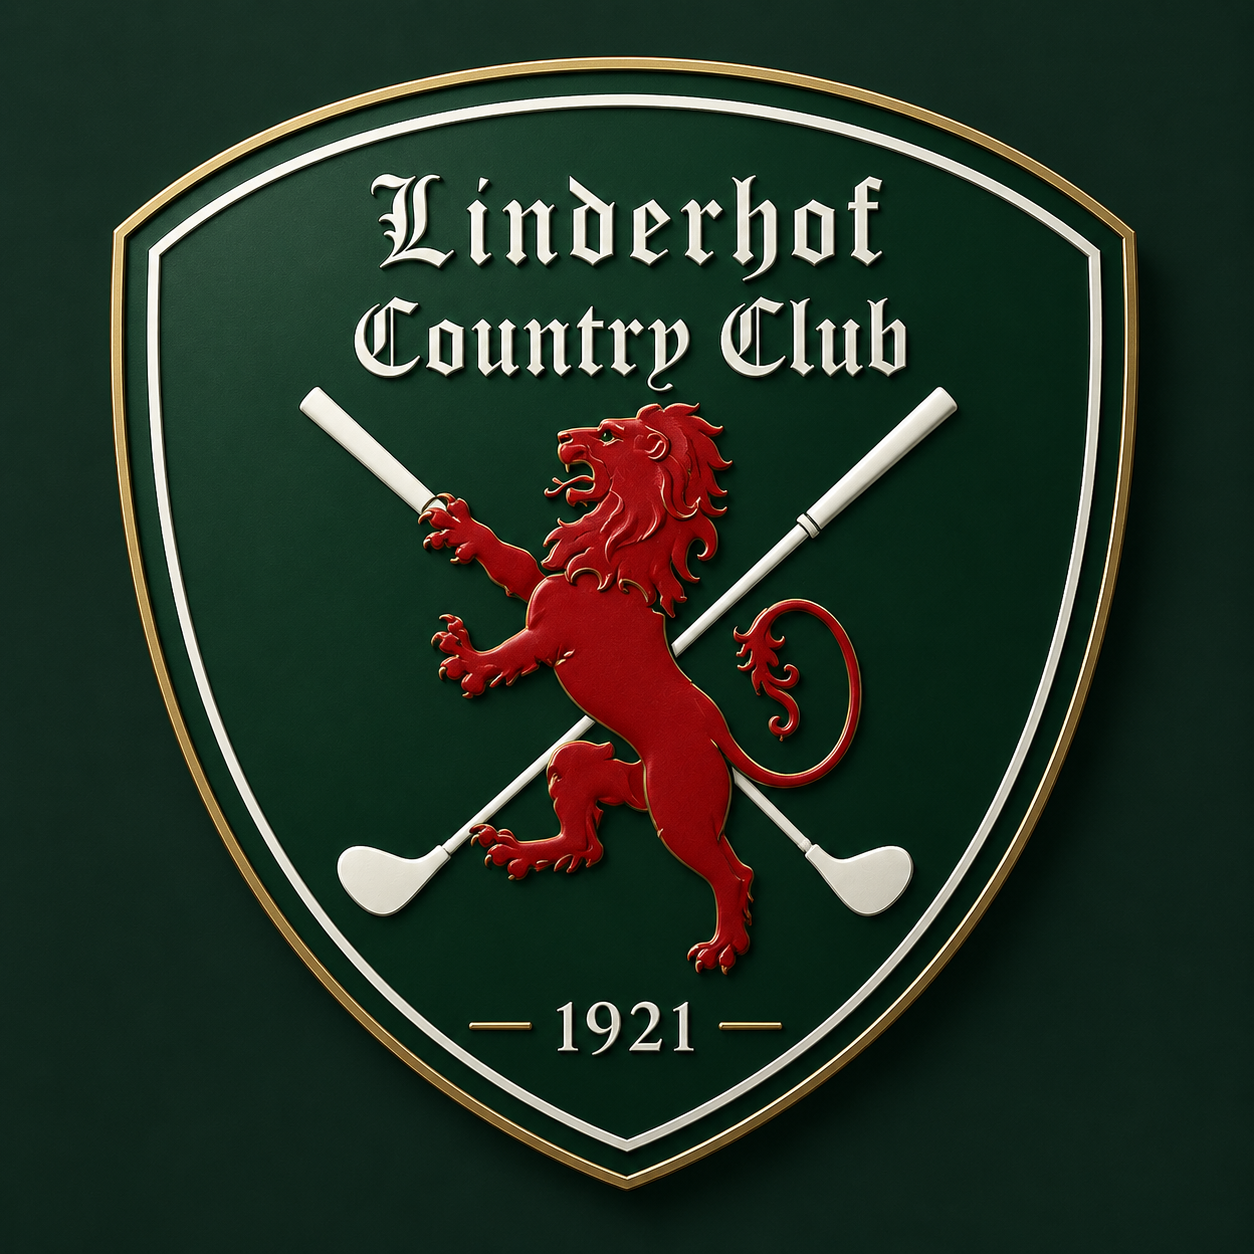
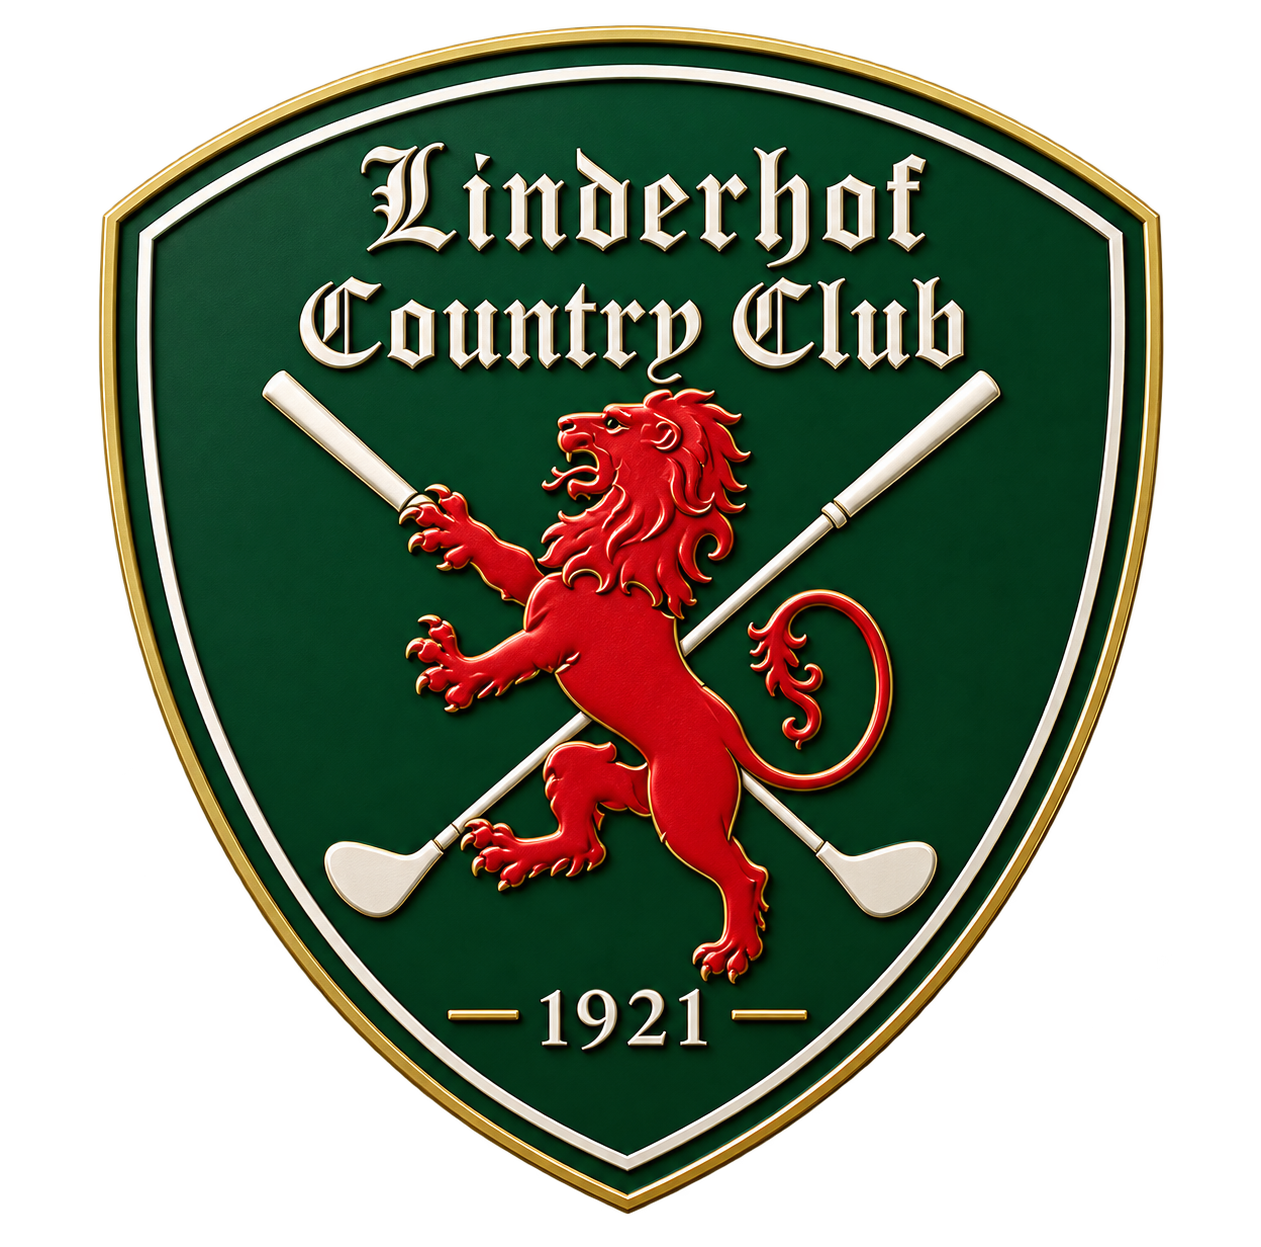
Add files via upload

diff --git a/app/globals.css b/app/globals.css
@@ -75,3 +75,7 @@ body{background:#fff}
 .crestLogo{width:172px;height:172px;max-width:none;object-fit:contain;object-position:center;filter:drop-shadow(0 3px 8px rgba(0,0,0,.5));border-radius:3px}
 @media(max-width:1000px){.crestLogo{width:132px;height:132px}.centerLogo{min-height:132px}}
 @media(max-width:680px){.crestLogo{width:100px;height:100px}.centerLogo{min-height:100px;transform:none}}
+
+/* Transparent shield logo: no background or cropping */
+.centerLogo{overflow:visible!important;background:transparent!important}
+.crestLogo{display:block;object-fit:contain!important;object-position:center!important;background:transparent!important;border:0!important;border-radius:0!important;clip-path:none!important}
